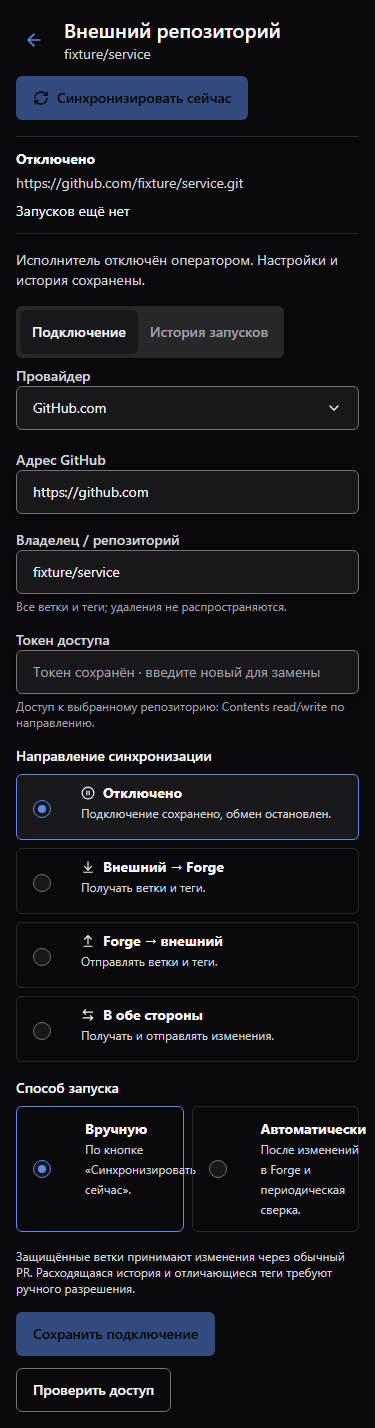
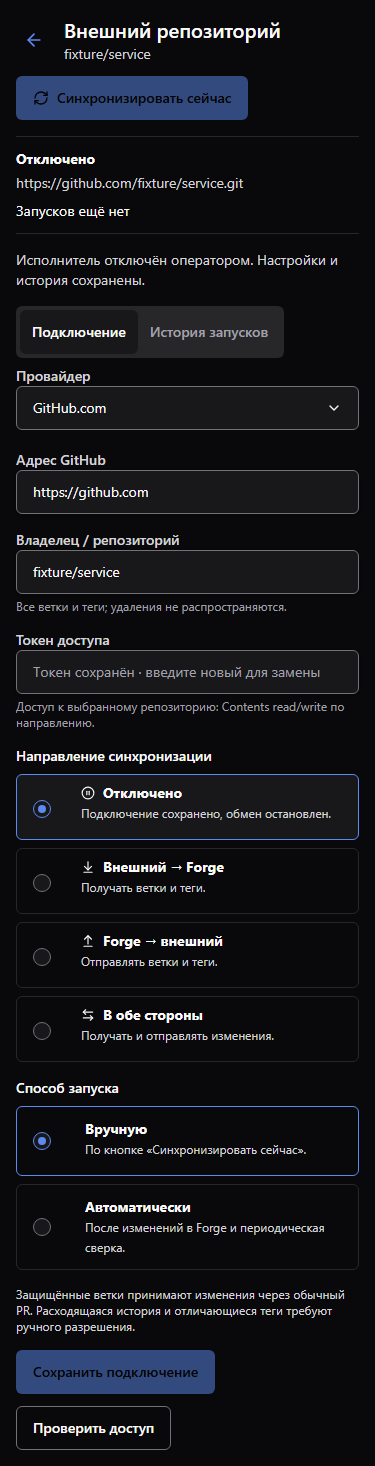
fix(sync): contain mobile launch mode card text

diff --git a/frontend/e2e/repository-sync-history.spec.ts b/frontend/e2e/repository-sync-history.spec.ts
@@ -59,6 +59,31 @@ for (const width of [375, 1026, 1440, 1920, 2560]) {
     expect(query.get('project_scope')).toBe('all')
     expect(query.get('provider')).toBe('github')
     expect(query.get('search')).toBe('service')
+    const modeCards = await page.getByRole('group', { name: 'Способ запуска', exact: true })
+      .locator('label').evaluateAll(labels => labels.map(label => {
+        const card = label.getBoundingClientRect()
+        const walker = document.createTreeWalker(label, NodeFilter.SHOW_TEXT)
+        const text: { left: number; right: number; top: number; bottom: number }[] = []
+        while (walker.nextNode()) {
+          if (!walker.currentNode.textContent?.trim()) continue
+          const range = document.createRange()
+          range.selectNodeContents(walker.currentNode)
+          text.push(...Array.from(range.getClientRects(), rect => ({
+            left: rect.left, right: rect.right, top: rect.top, bottom: rect.bottom,
+          })))
+        }
+        return { card: { left: card.left, right: card.right, top: card.top, bottom: card.bottom }, text }
+      }))
+    expect(modeCards).toHaveLength(2)
+    for (const { card, text } of modeCards) {
+      expect(text.length).toBeGreaterThan(0)
+      for (const rect of text) {
+        expect(rect.left).toBeGreaterThanOrEqual(card.left + 1)
+        expect(rect.right).toBeLessThanOrEqual(card.right - 1)
+        expect(rect.top).toBeGreaterThanOrEqual(card.top + 1)
+        expect(rect.bottom).toBeLessThanOrEqual(card.bottom - 1)
+      }
+    }
     expect(await page.evaluate(() => document.documentElement.scrollWidth <= innerWidth)).toBe(true)
     await page.screenshot({ path: testInfo.outputPath(`tabs-${width}.png`), fullPage: true })
     expect(mutations).toEqual([])

diff --git a/frontend/src/pages/repository-syncs/index.tsx b/frontend/src/pages/repository-syncs/index.tsx
@@ -780,7 +780,7 @@ onValueChange={(nextValue) => patch({
             </fieldset>
             <fieldset disabled={!writable || !!connection.active_run}>
               <legend className="mb-2 font-medium">Способ запуска</legend>
-              <div className="grid grid-cols-2 gap-2">
+              <div className="grid grid-cols-1 gap-2 sm:grid-cols-2">
                 {[false, true].map((automatic) => (
                   <label
                     key={String(automatic)}

diff --git a/frontend/e2e/fixtures/README.md b/frontend/e2e/fixtures/README.md
@@ -24,6 +24,11 @@ loopback-порта можно задать `E2E_BASE_URL`; установлен
 стрелками, reload и сохранение фильтров. Screenshots и failure traces лежат в
 `test-results/sync-history`.
 
+Дополнительно проверяются реальные DOM Range bounds всех текстовых фрагментов
+в обеих карточках способа запуска: текст должен оставаться внутри рамки карточки,
+включая mobile. Одного отсутствия горизонтальной прокрутки для этой проверки
+недостаточно.
+
 Обычный production E2E config пропускает эту отдельную fixture-регрессию. Явный
 `playwright.sync-history.config.ts` включает её и не допускает тихий all-skip.
 Успешная source-проверка не заменяет приёмку установленного приложения с настоящим SSO.

diff --git a/CHANGELOG.md b/CHANGELOG.md
@@ -17,6 +17,8 @@
 
 - Исправлен возврат Back/Forward между подключением и историей синхронизации:
   один выбор вкладки создаёт одну запись истории, сохраняя фильтры URL.
+- Карточки ручного и автоматического запуска располагаются в одну колонку на
+  узком экране, чтобы заголовки и пояснения оставались внутри границ карточек.
 
 - Подключена объединённая версия общего UI Base: адаптивная оболочка, безопасные диалоги и независимая прокрутка панелей брендинга.
 
